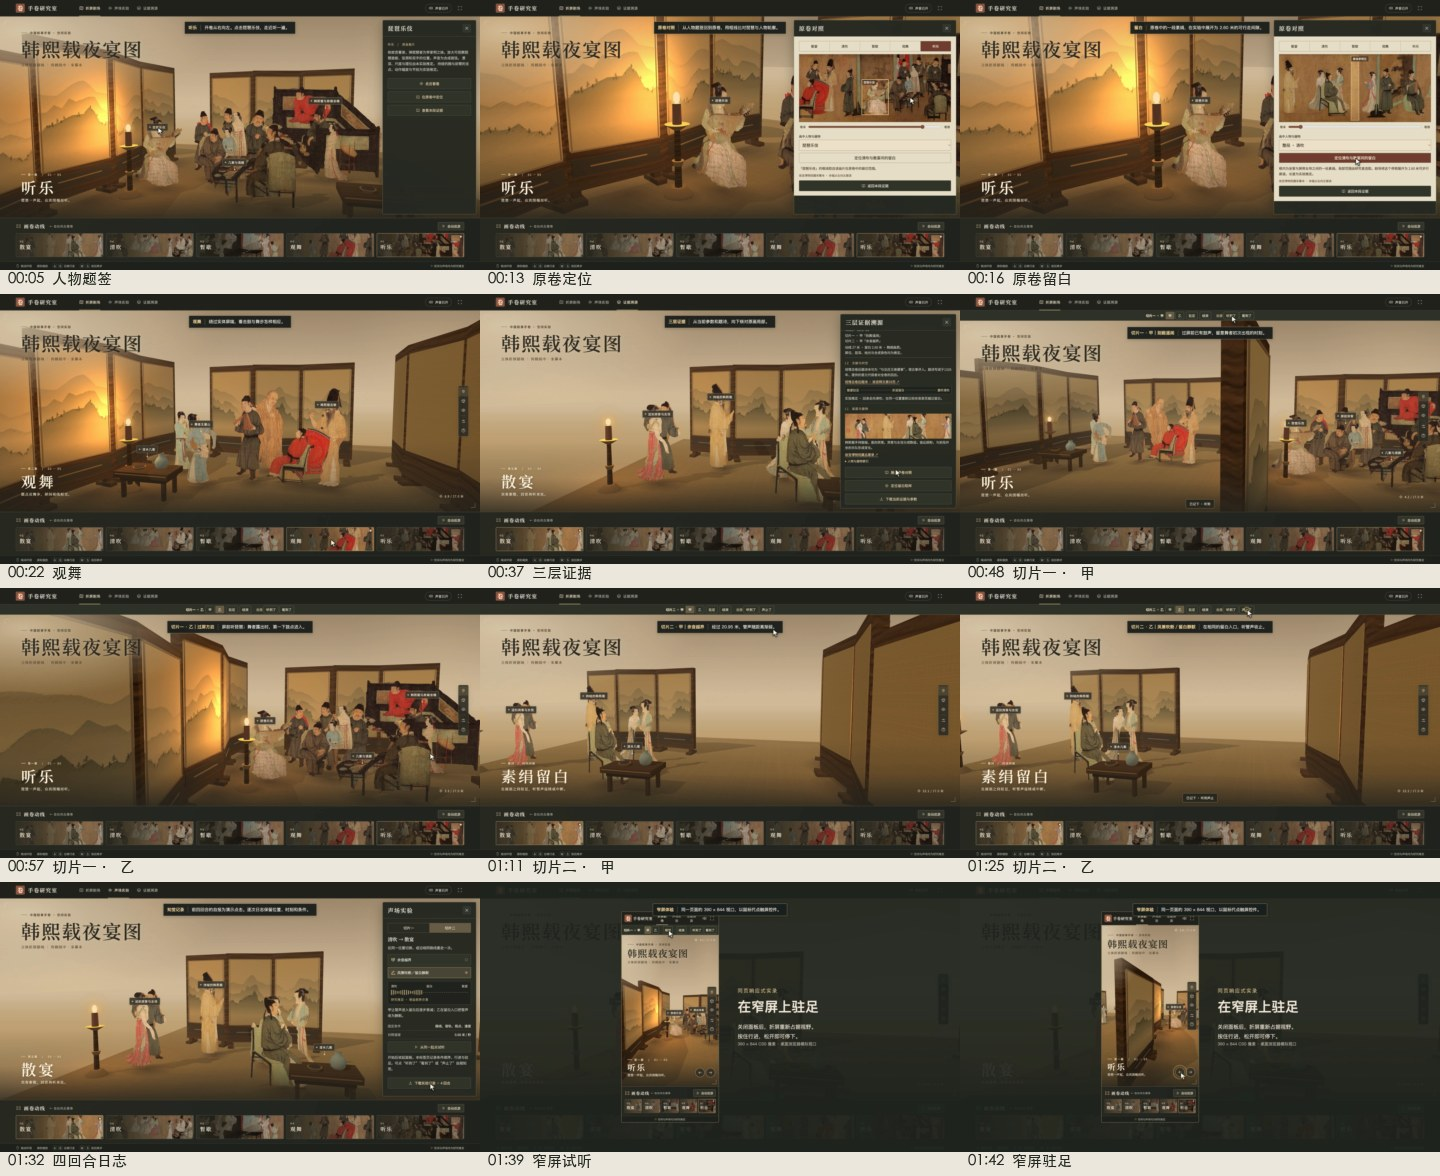
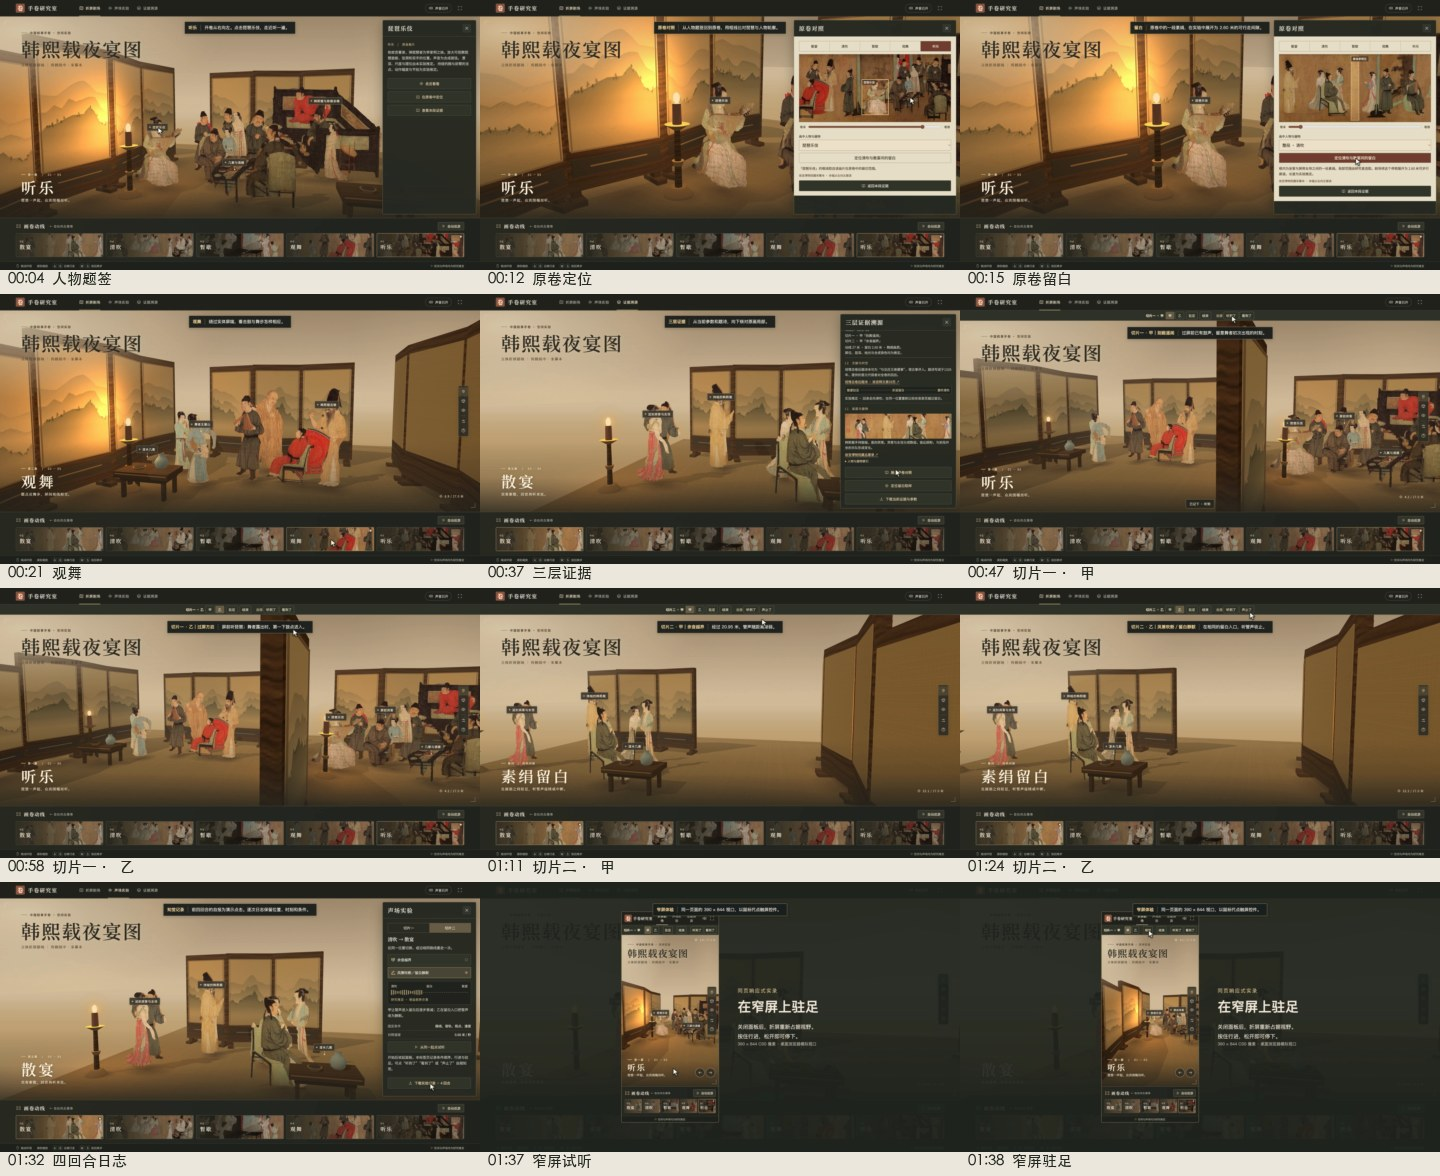
补齐从成片事件重建操作分镜图的脚本与依赖

diff --git a/scripts/demo/stills.py b/scripts/demo/stills.py
@@ -1,0 +1,50 @@
+"""从已验收成片提取真实操作帧，生成研究文档中的缩略图。"""
+import argparse
+import json
+from pathlib import Path
+import av
+from PIL import Image, ImageDraw, ImageFont
+
+parser=argparse.ArgumentParser(description=__doc__)
+parser.add_argument("folder",type=Path)
+parser.add_argument("output",type=Path)
+parser.add_argument("--font",type=Path,help="可选的本地中文字体文件")
+args=parser.parse_args()
+report=json.loads((args.folder/"4K成片验收.json").read_text())
+events=report["成片事件"]
+# 每张图片取自实际操作之后。相邻的甲乙画面显示相同线路位置。
+choices=[
+    ("操作","琵琶乐伎",.8,"人物题签"),
+    ("操作","在原卷定位乐伎",1.3,"原卷定位"),
+    ("操作","原卷定位清吹与散宴的素绢",1.2,"原卷留白"),
+    ("镜头","观舞",2.8,"观舞"),
+    ("镜头","三层证据",2.8,"三层证据"),
+    ("试听起点","切片一 · 甲",2.9,"切片一 · 甲"),
+    ("试听起点","切片一 · 乙",2.9,"切片一 · 乙"),
+    ("试听起点","切片二 · 甲",5.4,"切片二 · 甲"),
+    ("试听起点","切片二 · 乙",5.4,"切片二 · 乙"),
+    ("操作","浏览器下载四次实验日志",.6,"四回合日志"),
+    ("操作","窄屏启动试听，面板自动收起",.4,"窄屏试听"),
+    ("操作","窄屏试听驻足",.5,"窄屏驻足"),
+]
+candidates=[args.font,Path("/System/Library/Fonts/STHeiti Medium.ttc"),
+            Path("/usr/share/fonts/opentype/noto/NotoSansCJK-Regular.ttc"),
+            Path("C:/Windows/Fonts/msyh.ttc")]
+file=next((p for p in candidates if p and p.exists()),None)
+font=ImageFont.truetype(str(file),15) if file else ImageFont.load_default(size=15)
+sheet=Image.new("RGB",(1440,4*294),"#ece7dc")
+draw=ImageDraw.Draw(sheet)
+with av.open(str(args.folder/"韩熙载夜宴图-折屏剧场与听觉实验-4K.mp4")) as src:
+    stream=src.streams.video[0]
+    stream.thread_type="AUTO"
+    for n,(kind,name,offset,caption) in enumerate(choices):
+        begin=next(e["时间"] for e in events if e["类别"]==kind and e["名称"]==name)
+        t=begin+offset
+        src.seek(int(t/stream.time_base),stream=stream)
+        frame=next(f for f in src.decode(video=0) if f.time>=t)
+        x,y=n%3*480,n//3*294
+        sheet.paste(frame.reformat(width=480,height=270,format="rgb24").to_image(),(x,y))
+        stamp=f"{int(t)//60:02}:{int(t)%60:02}"
+        draw.text((x+8,y+271),stamp+"  "+caption if file else stamp,font=font,fill="#252b22")
+args.output.parent.mkdir(parents=True,exist_ok=True)
+sheet.save(args.output,quality=88)

diff --git a/docs/4K实录与复验.md b/docs/4K实录与复验.md
@@ -15,6 +15,7 @@ node scripts/demo/capture.mjs --sample ../夜宴折屏交付/小样
 /tmp/夜宴录制环境/bin/python scripts/demo/finish.py --sample ../夜宴折屏交付/小样
 node scripts/demo/capture.mjs ../夜宴折屏交付
 /tmp/夜宴录制环境/bin/python scripts/demo/finish.py ../夜宴折屏交付
+/tmp/夜宴录制环境/bin/python scripts/demo/stills.py ../夜宴折屏交付 docs/images/4K实录分镜.jpg
 /tmp/夜宴录制环境/bin/python scripts/demo/notes.py ../夜宴折屏交付 docs/4K分镜与验收.md
 ```
 

diff --git a/docs/实验复核.md b/docs/实验复核.md
@@ -33,4 +33,3 @@ BROWSER_CHANNEL=chrome REPORT_PATH=完整巡游.json npm run test:tour
 ```
 
 巡游从起始视点 1.5 米连续行至卷末 27 米，经过全部五幕与留白。标准画质，声音开启，1440 × 900 视口，1440 × 641 绘图缓冲，ANGLE Metal。47.06 秒内采得 2821 个浏览器动画帧间隔，平均 59.94 fps，中位 16.7 毫秒，P95 为 16.8 毫秒，最长 33.4 毫秒。4K 录制的原始帧间隔另见镜头表。此次移动端验收在同一台 Mac 上模拟触屏尺寸。
-
